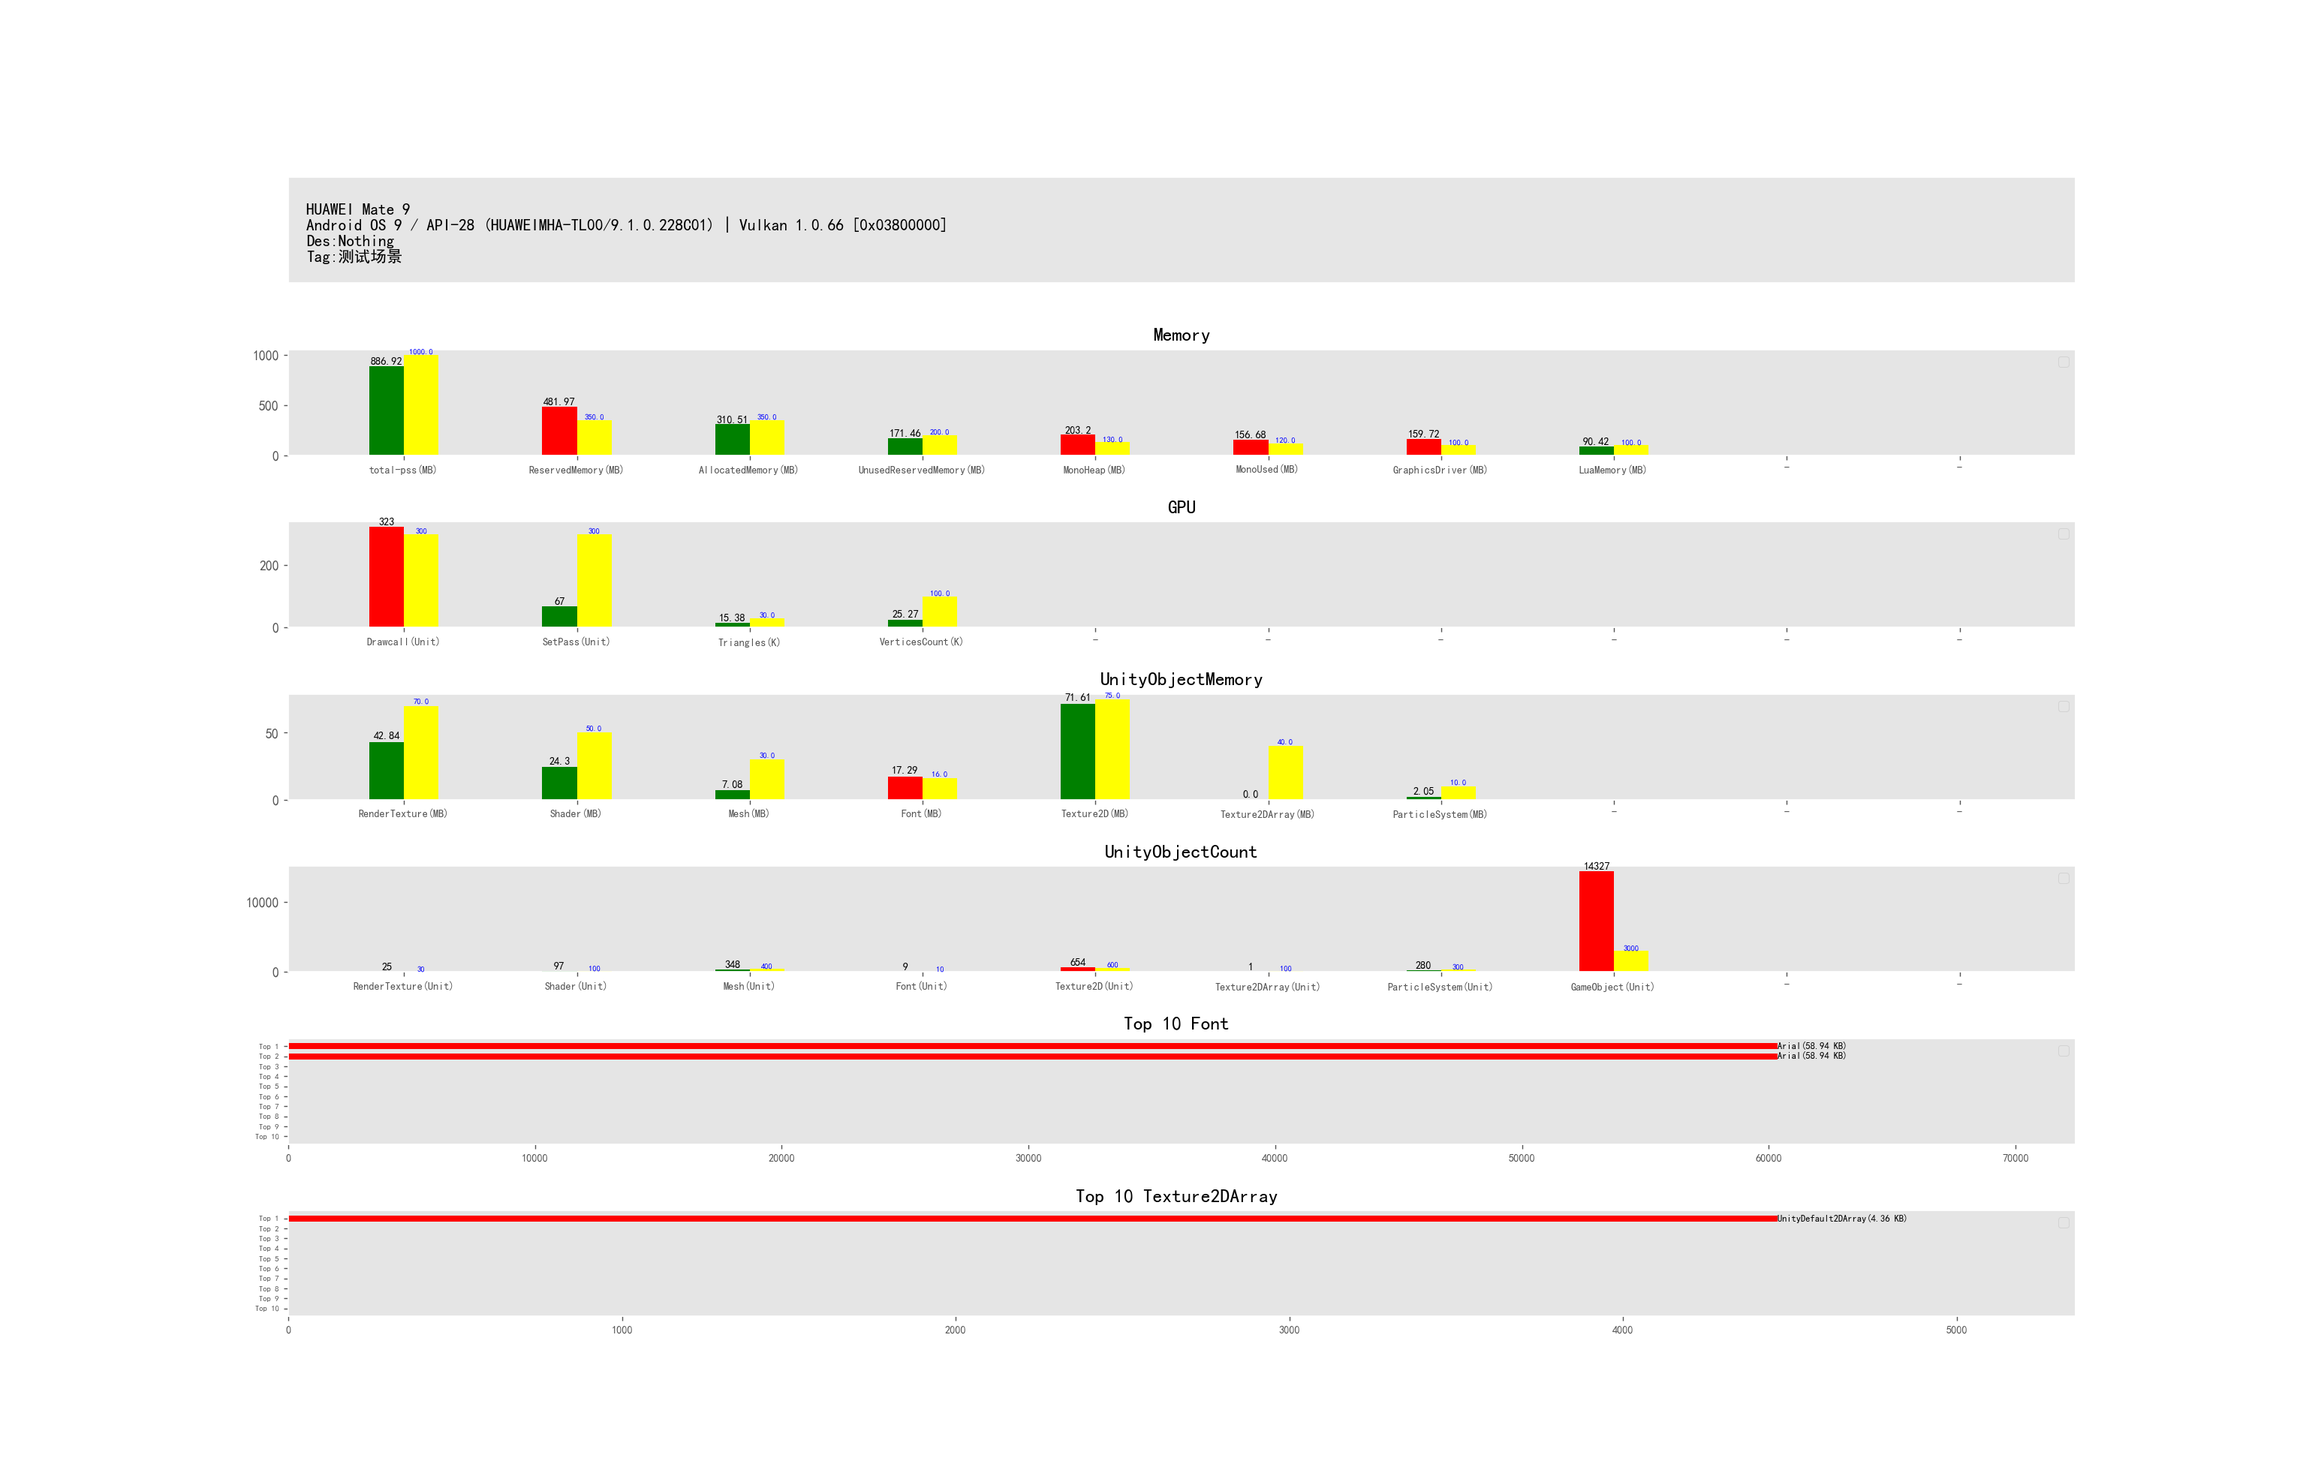
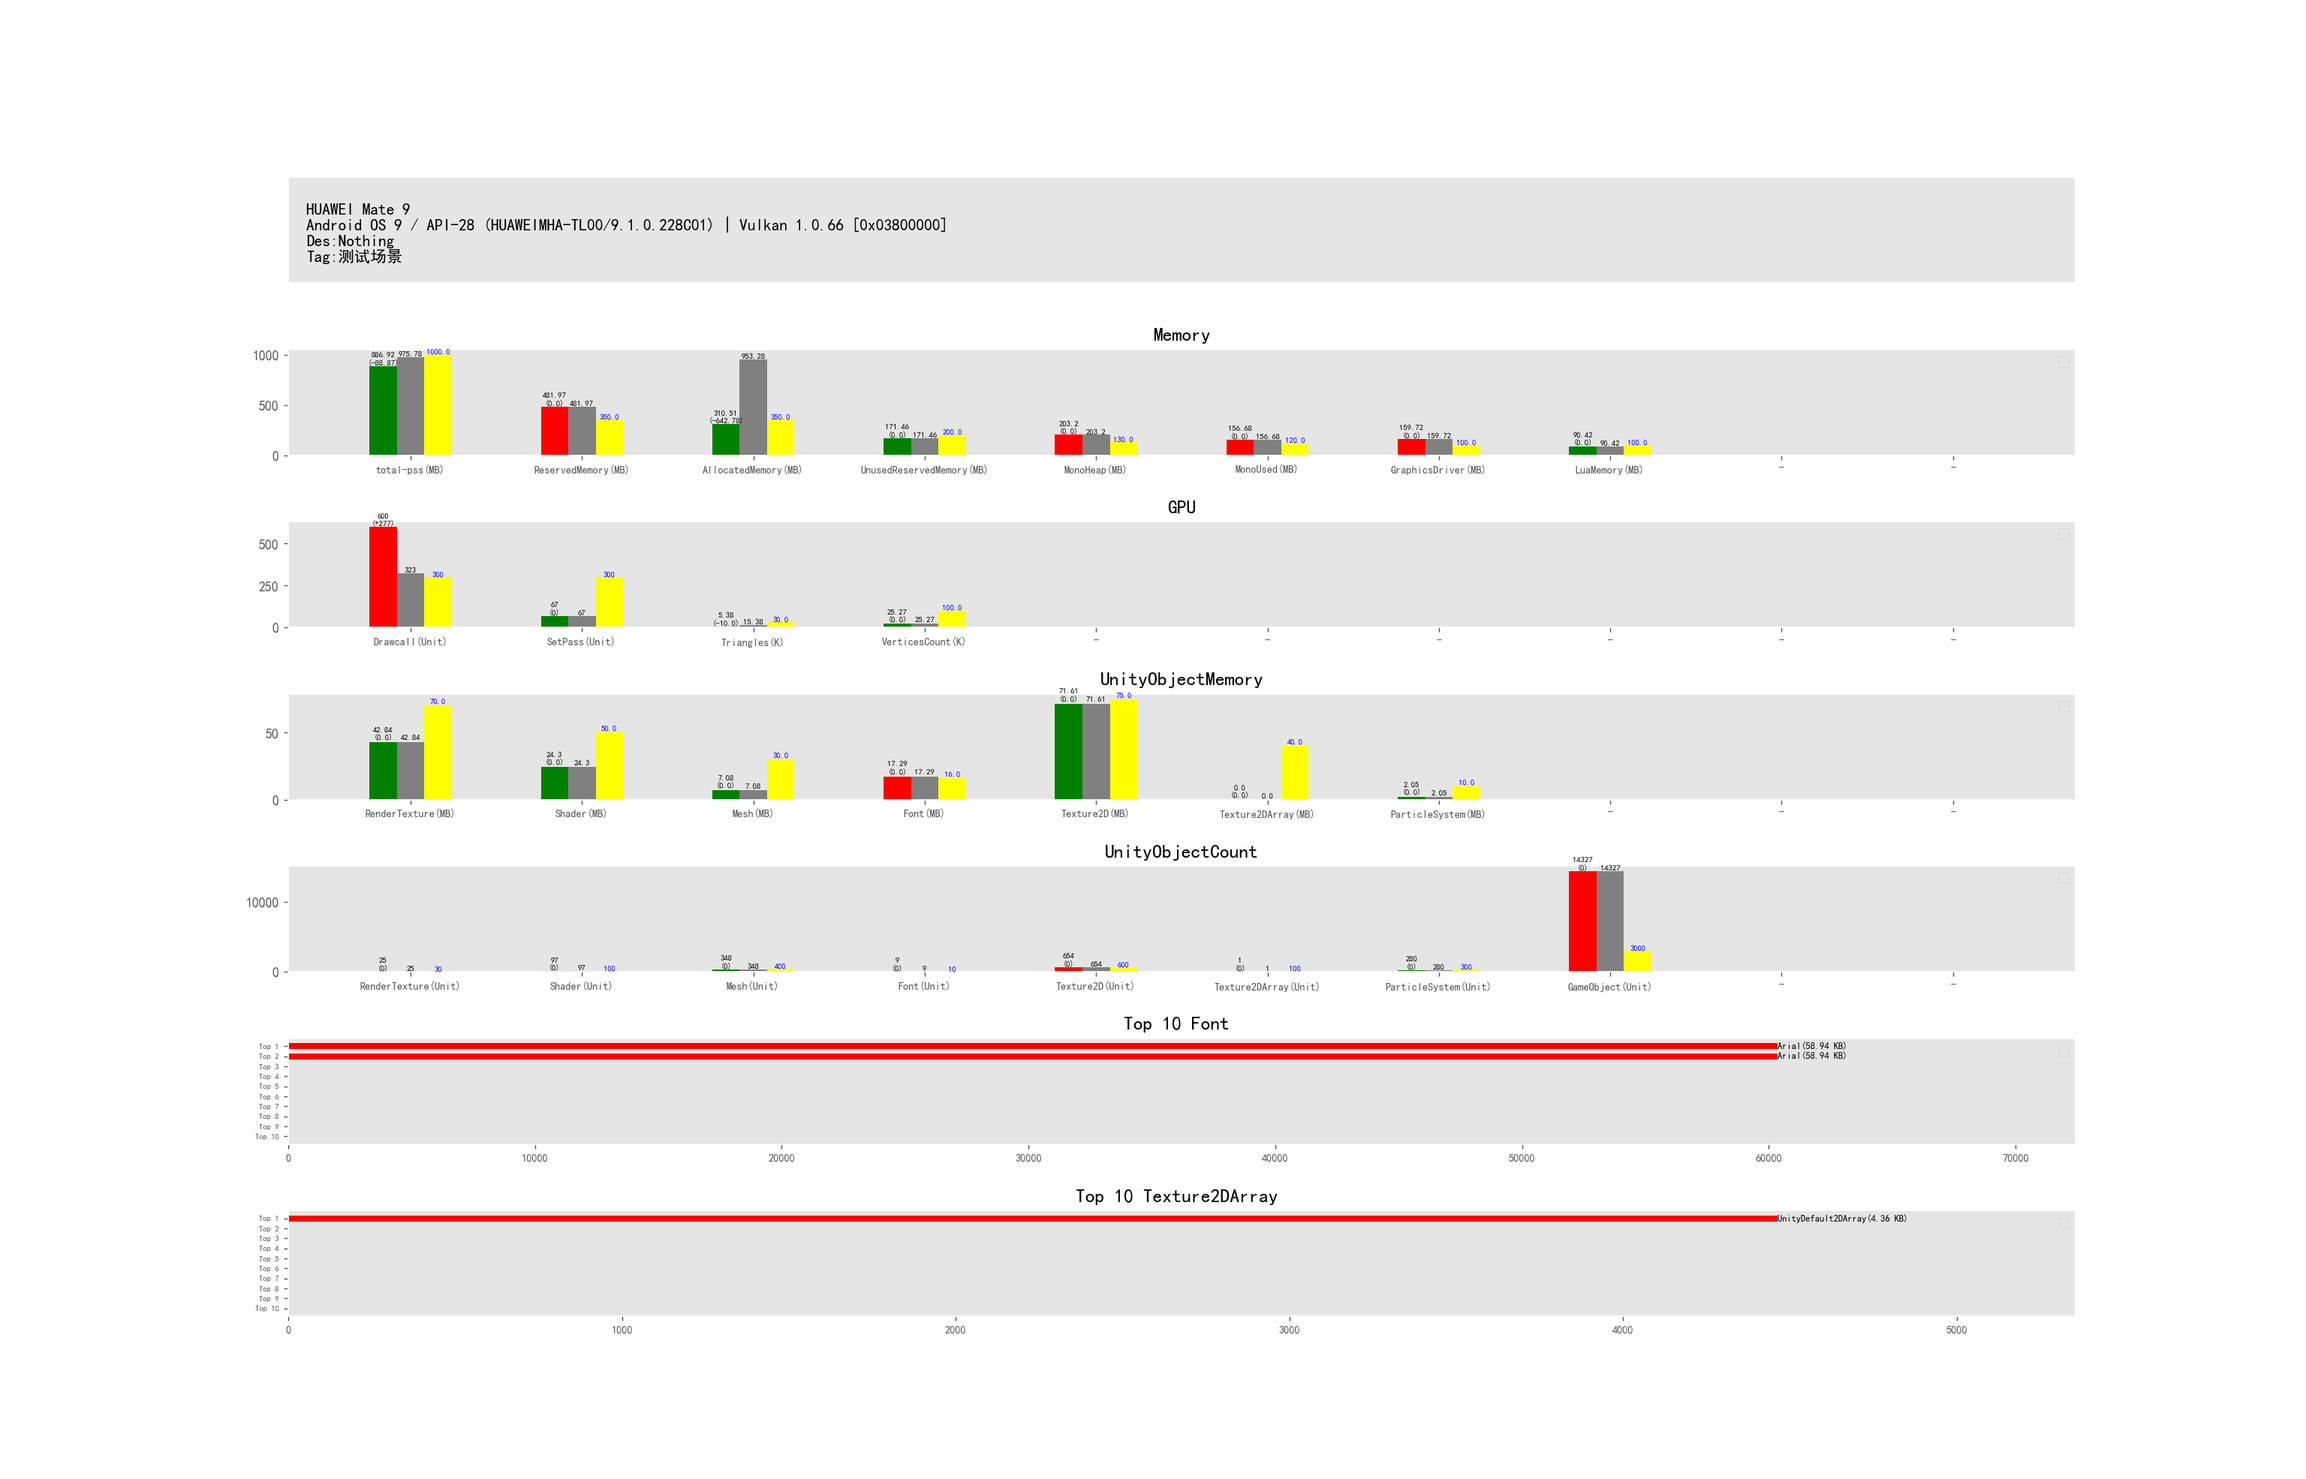
测试代码

diff --git a/Core/draw_view.py b/Core/draw_view.py
@@ -1,4 +1,4 @@
-#coding:utf-8
+# coding:utf-8
 
 import os
 import sys
@@ -14,9 +14,9 @@ style.use('ggplot')
 
 print(sys.platform)
 if sys.platform == "win32":
-   plt.rcParams['font.sans-serif'] = ['SimHei']
+    plt.rcParams['font.sans-serif'] = ['SimHei']
 else:
-   plt.rcParams['font.sans-serif'] = ['Songti SC']
+    plt.rcParams['font.sans-serif'] = ['Songti SC']
 
 # plt.rcParams['font.sans-serif'] = ['SimHei', 'Songti SC', 'STFangsong']
 plt.rcParams['axes.unicode_minus'] = False
@@ -35,11 +35,12 @@ arrowprops = dict(
 
 HSpace = 0.63
 
-def get_value_str(unit_conversion,value):
+
+def get_value_str(unit_conversion, value):
     if unit_conversion == 0:
         mb = value * 1.0 / 1024 / 1024
         return "%s" % round(mb, 2)
-    if  unit_conversion == 1:
+    if unit_conversion == 1:
         mb = value * 1.0 / 1024
         return "%s" % round(mb, 2)
     if unit_conversion == 3:
@@ -47,18 +48,34 @@ def get_value_str(unit_conversion,value):
         return "%s" % round(count, 2)
     return value
 
-OneMB =  1024 * 1024
-OneKB =  1024
-def get_value_show_str(unit_conversion,value):
+
+def get_compare_value_str(unit_conversion, value, compare_value):
     if unit_conversion == 0:
-        if value>= OneMB:
+        mb = value * 1.0 / 1024 / 1024
+        return "%s" % round(mb, 2)
+    if unit_conversion == 1:
+        mb = value * 1.0 / 1024
+        return "%s" % round(mb, 2)
+    if unit_conversion == 3:
+        count = value * 0.001
+        return "%s" % round(count, 2)
+    return value
+
+
+OneMB = 1024 * 1024
+OneKB = 1024
+
+
+def get_value_show_str(unit_conversion, value):
+    if unit_conversion == 0:
+        if value >= OneMB:
             mb = value * 1.0 / OneMB
             return "%s MB" % round(mb, 2)
         else:
             mb = value * 1.0 / OneKB
             return "%s KB" % round(mb, 2)
 
-    if  unit_conversion == 1:
+    if unit_conversion == 1:
         mb = value * 1.0 / 1024
         return "%s" % round(mb, 2)
     if unit_conversion == 3:
@@ -67,7 +84,7 @@ def get_value_show_str(unit_conversion,value):
     return value
 
 
-def get_max_value_str(unit_conversion,max_value):
+def get_max_value_str(unit_conversion, max_value):
     if unit_conversion == 0:
         mb = max_value * 1.0 / 1024 / 1024
         return "%s" % round(mb, 2)
@@ -82,7 +99,7 @@ def get_max_value_str(unit_conversion,max_value):
     return "%s" % max_value
 
 
-def get_label_name(unit_conversion,name):
+def get_label_name(unit_conversion, name):
     if unit_conversion == 0:
         return "%s(MB)" % name
     if unit_conversion == 1:
@@ -116,20 +133,34 @@ class DrawInfo:
             self.show_max_value = self.maxValue
 
     def get_value_str(self):
-        return get_value_str(unit_conversion=self.unitConversion,value=self.value)
+        return get_value_str(unit_conversion=self.unitConversion, value=self.value)
+
+    def get_compare_value_str(self, compare):
+        if compare is None:
+            return get_value_str(unit_conversion=self.unitConversion, value=self.value)
+        v = get_value_str(unit_conversion=self.unitConversion, value=self.value)
+        d = ""
+        if self.value > compare.value:
+           d = "+"
+        if self.name == "Drawcall":
+            print(self.value)
+            print(compare.value)
+            print(self.value - compare.value)
+
+        return "%s\n(%s%s)" % (v,d,get_value_str(self.unitConversion,self.value - compare.value))
 
     def get_max_value_str(self):
-        return get_max_value_str(unit_conversion=self.unitConversion,max_value=self.maxValue)
+        return get_max_value_str(unit_conversion=self.unitConversion, max_value=self.maxValue)
 
     def get_label_name(self):
-        return get_label_name(unit_conversion=self.unitConversion,name=self.name)
+        return get_label_name(unit_conversion=self.unitConversion, name=self.name)
 
     def is_out_limit(self):
         return self.value > self.maxValue
 
 
 class TopInfo:
-    def __init__(self,line):
+    def __init__(self, line):
         info = line.replace("\n", "").split(",")
         self.category = info[1]
         self.des = info[2]
@@ -138,36 +169,55 @@ class TopInfo:
         self.value = []
         self.parse_values(info[5])
 
-    def parse_values(self,value):
+    def parse_values(self, value):
         line = value[1:-1]
         items = line.split("$")
         for item in items:
             if len(item) > 0:
-               v = item.split("=")
-               self.value.append((v[0],int(v[1])))
+                v = item.split("=")
+                self.value.append((v[0], int(v[1])))
         print(self.value)
 
+
 class Report:
-    def __init__(self, sys_info, content,top_info):
+    def __init__(self, sys_info, content, top_info):
         self.sys_info = sys_info
         self.content = content
         self.top_info = top_info
-
-    def export_report(self, out_path):
-        infos = dict()
+        self.infos = dict()
         for draw_info in self.content:
-            items = infos.get(draw_info.category)
+            items = self.infos.get(draw_info.category)
             if items is None:
                 items = []
-                infos.setdefault(draw_info.category, items)
+                self.infos.setdefault(draw_info.category, items)
             items.append(draw_info)
-        self.infos = infos
+        self.compare_report = None
+
+    def get_compare_content_value(self, draw_info: DrawInfo):
+        if self.has_compare_info():
+            items = self.compare_report.infos.get(draw_info.category)
+            if items is not None:
+                for info in items:
+                    if info.name == draw_info.name:
+                        return info
+        return None
+
+
+    def export_report(self, out_path):
         draw_category_view(self, out_path)
+
+    def has_compare_info(self):
+        return self.compare_report is not None
+
+    def export_compare_report(self, compare_report, out_path: str):
+        self.compare_report = compare_report
+        self.export_report(out_path)
 
 
 def check_line_invalid(line):
     items = line.replace("\n", "").split(",")
     return len(items) == 6
+
 
 def check_top_line_invalid(line):
     return check_line_invalid(line)
@@ -181,7 +231,7 @@ def parse_file_infos(file_path):
     draw_infos = []
     sys_info = []
     top_info = []
-    with open(file_path, 'r', encoding= "utf-8") as file:
+    with open(file_path, 'r', encoding="utf-8") as file:
         lines = file.readlines()
         length = len(lines)
         for i in range(0, length):
@@ -221,16 +271,20 @@ def parse_file_infos(file_path):
                         else:
                             print("Jump empty line")
 
-    report = Report(sys_info=sys_info, content=draw_infos,top_info=top_info)
+    report = Report(sys_info=sys_info, content=draw_infos, top_info=top_info)
     return report
 
 
-def draw_item_view(ax, category, draw_infos):
+def draw_item_view(ax, category, draw_infos, report: Report):
     ax.set_title(category)
     length = len(draw_infos)
 
     names = []
     values = []
+    compare_values = []
+    compare_colors = []
+    compare_infos = []
+
     max_values = []
     width = 0.2
     x_ticks = []
@@ -244,44 +298,65 @@ def draw_item_view(ax, category, draw_infos):
         max_values.append(0)
         color_green.append("yellow")
         color.append("g")
+        compare_values.append(0)
+        compare_colors.append("gray")
 
     for i in range(0, length):
-        names[i] = "%s" % draw_infos[i].get_label_name()
-        values[i] = draw_infos[i].show_value
-        max_values[i] = draw_infos[i].show_max_value
-        if draw_infos[i].is_out_limit():
+        draw_info = draw_infos[i]
+        names[i] = "%s" % draw_info.get_label_name()
+        values[i] = draw_info.show_value
+        max_values[i] = draw_info.show_max_value
+        if draw_info.is_out_limit():
             color[i] = "r"
+        compare_draw_info = report.get_compare_content_value(draw_info)
+        compare_infos.append(compare_draw_info)
+        if compare_draw_info:
+            compare_values[i] = compare_draw_info.show_value
 
     for i in range(0, max_length):
         x_ticks.append(i * width + width)
     ax.set_xticks(x_ticks)
-    # ax.set_xticklabels(names)
+    ## ax.set_xticklabels(names)
     ax.legend([])
     plt.sca(ax)
     plt.xticks(np.arange(10), labels=names)
-    plt.bar(np.arange(10) - 0.1, values, width=0.2, color=color)
-    plt.bar(np.arange(10) + 0.1, max_values, width=0.2, color=color_green)
 
-    ax.grid(False)
-    for i in range(0, length):
-        plt.text(i - 0.1, values[i] + 1, draw_infos[i].get_value_str(), va="bottom", ha='center', fontsize=8)
-        plt.text(i + 0.1, max_values[i] + 1, draw_infos[i].get_max_value_str(), va="bottom", ha='center', fontsize=6, color="b")
+    show_width = 0.16
+    if report.has_compare_info():
+        bar_width = show_width
+        plt.bar(np.arange(10) - bar_width, values, width=show_width, color=color)
+        plt.bar(np.arange(10), compare_values, width=show_width, color=compare_colors)
+        plt.bar(np.arange(10) + bar_width, max_values, width=show_width, color=color_green)
+        ax.grid(False)
+        for i in range(0, length):
+            plt.text(i - show_width, values[i] + 1, draw_infos[i].get_compare_value_str(compare_infos[i]), va="bottom", ha='center', fontsize=6)
+            if compare_infos[i]:
+               plt.text(i, compare_values[i] + 1, compare_infos[i].get_value_str(), va="bottom", ha='center', fontsize=6)
+            plt.text(i + show_width, max_values[i] + 1, draw_infos[i].get_max_value_str(), va="bottom", ha='center',fontsize=6, color="b")
+    else:
+        bar_width = show_width/2
+        plt.bar(np.arange(10) - bar_width, values, width=show_width, color=color)
+        plt.bar(np.arange(10) + bar_width, max_values, width=show_width, color=color_green)
+        ax.grid(False)
+        for i in range(0, length):
+            plt.text(i - bar_width, values[i] + 1, draw_infos[i].get_value_str(), va="bottom", ha='center', fontsize=8)
+            plt.text(i + bar_width, max_values[i] + 1, draw_infos[i].get_max_value_str(), va="bottom", ha='center', fontsize=6, color="b")
 
 
-def draw_sys_info(sys_info_ax,report):
+def draw_sys_info(sys_info_ax, report):
     plt.sca(sys_info_ax)
     sys_info_ax.grid(False)
-    sys_info_ax.set_facecolor((0.9,0.9,0.9,1))
+    sys_info_ax.set_facecolor((0.9, 0.9, 0.9, 1))
     sys_info_ax.xaxis.set_visible(False)
     sys_info_ax.yaxis.set_visible(False)
     h = HSpace - 0.15
-    for i in range(0,len(report.sys_info)):
+    for i in range(0, len(report.sys_info)):
         info = report.sys_info[i]
         plt.text(0.01, h, info, va="bottom", ha='left', fontsize=12)
         h = h - 0.15
 
 
-def draw_top_info(ax,top_info : TopInfo):
+def draw_top_info(ax, top_info: TopInfo, report: Report):
     ax.set_title("Top 10 %s " % top_info.category)
     ax.grid(False)
     plt.sca(ax)
@@ -294,7 +369,7 @@ def draw_top_info(ax,top_info : TopInfo):
     for i in range(0, max_length):
         values.append(0)
         names.append('-')
-        labels.append("Top %s"% (i+1))
+        labels.append("Top %s" % (i + 1))
         color.append("r")
 
     for i in range(0, len(top_info.value)):
@@ -310,14 +385,15 @@ def draw_top_info(ax,top_info : TopInfo):
     y_ticks = []
     for i in range(0, max_length):
         y_ticks.append(i * width)
-    plt.yticks(np.arange(10), labels=labels,fontsize=6)
+    plt.yticks(np.arange(10), labels=labels, fontsize=6)
     ax.set_yticks(y_ticks)
     ax.legend([])
     plt.sca(ax)
     plt.barh(np.arange(10), values, height=0.6, color=color)
-    for i in range(0, len(values)) :
-        if names[i] != "-" :
-           plt.text(values[i], i,"%s(%s)" % (names[i],get_value_show_str(top_info.unitConversion,values[i])), va="center", ha='left', fontsize=7)
+    for i in range(0, len(values)):
+        if names[i] != "-":
+            plt.text(values[i], i, "%s(%s)" % (names[i], get_value_show_str(top_info.unitConversion, values[i])),
+                     va="center", ha='left', fontsize=7)
 
 
 def draw_category_view(report, out_path, show=True):
@@ -330,17 +406,17 @@ def draw_category_view(report, out_path, show=True):
     fig = plt.figure(figsize=(24, height), dpi=128)
     i = 1
     sys_info = fig.add_subplot(per, 1, i)
-    draw_sys_info(sys_info,report)
+    draw_sys_info(sys_info, report)
     i = i + 1
     for key, value in infos_dic.items():
         ax = fig.add_subplot(per, 1, i)
         # ax = fig.add_subplot(per, 1, i,frameon = False,facecolor = (0.9,0.9,0.9,0.7),)
-        draw_item_view(ax, key, value)
+        draw_item_view(ax, key, value, report)
         i = i + 1
 
     for top in report.top_info:
         top_info = fig.add_subplot(per, 1, i)
-        draw_top_info(top_info, top)
+        draw_top_info(top_info, top, report)
         i = i + 1
 
     fig.subplots_adjust(wspace=3, hspace=HSpace)
@@ -349,8 +425,9 @@ def draw_category_view(report, out_path, show=True):
         plt.show()
 
 
-
-
-def draw_file(file_path, out_path):
+def draw_file(file_path, compare_file_path, out_path):
     report = parse_file_infos(file_path)
-    report.export_report(out_path)
+    compare_report = parse_file_infos(compare_file_path)
+    # compare_report = None
+    # report.export_report(out_path)
+    report.export_compare_report(compare_report, out_path)

diff --git a/main.py b/main.py
@@ -64,7 +64,7 @@ from Core import draw_view
 if __name__ == '__main__':
      # window = MainWindow()
      # window.start()
-     draw_view.draw_file("Test.txt","Test.png")
+     draw_view.draw_file("Test.txt","Test_compare.txt","Test.png")
 
 
 # See PyCharm help at https://www.jetbrains.com/help/pycharm/
